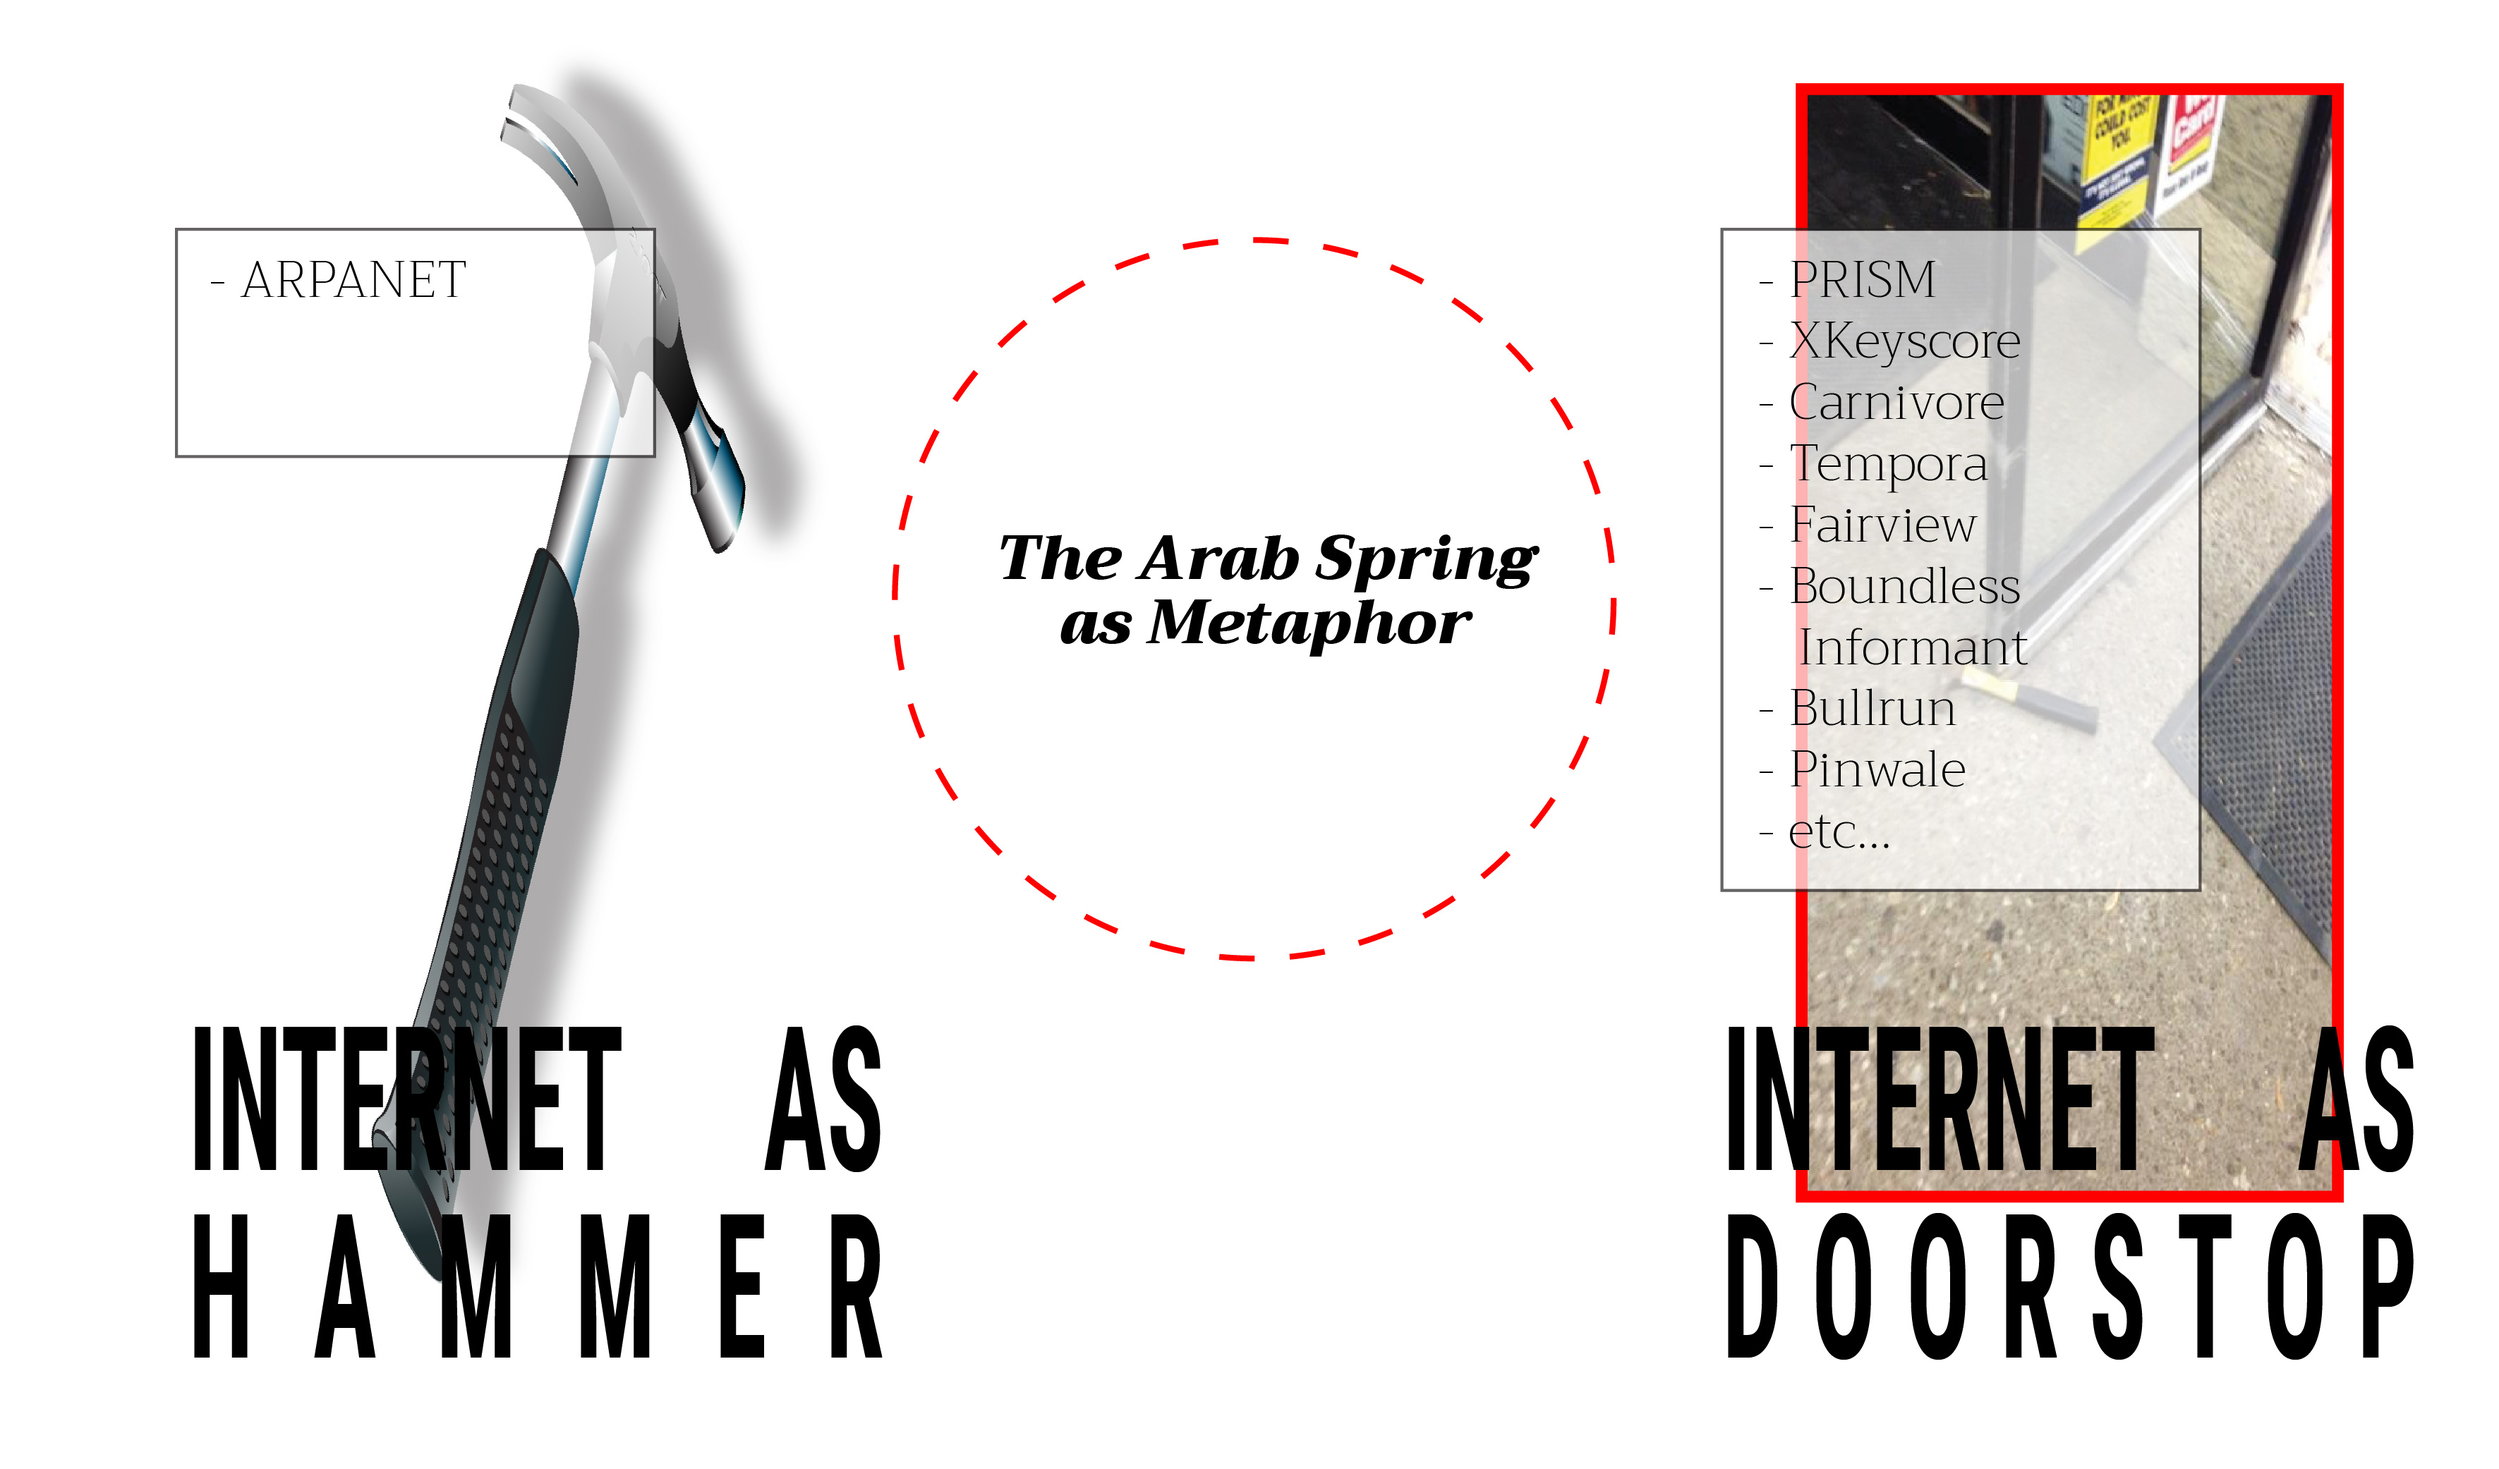
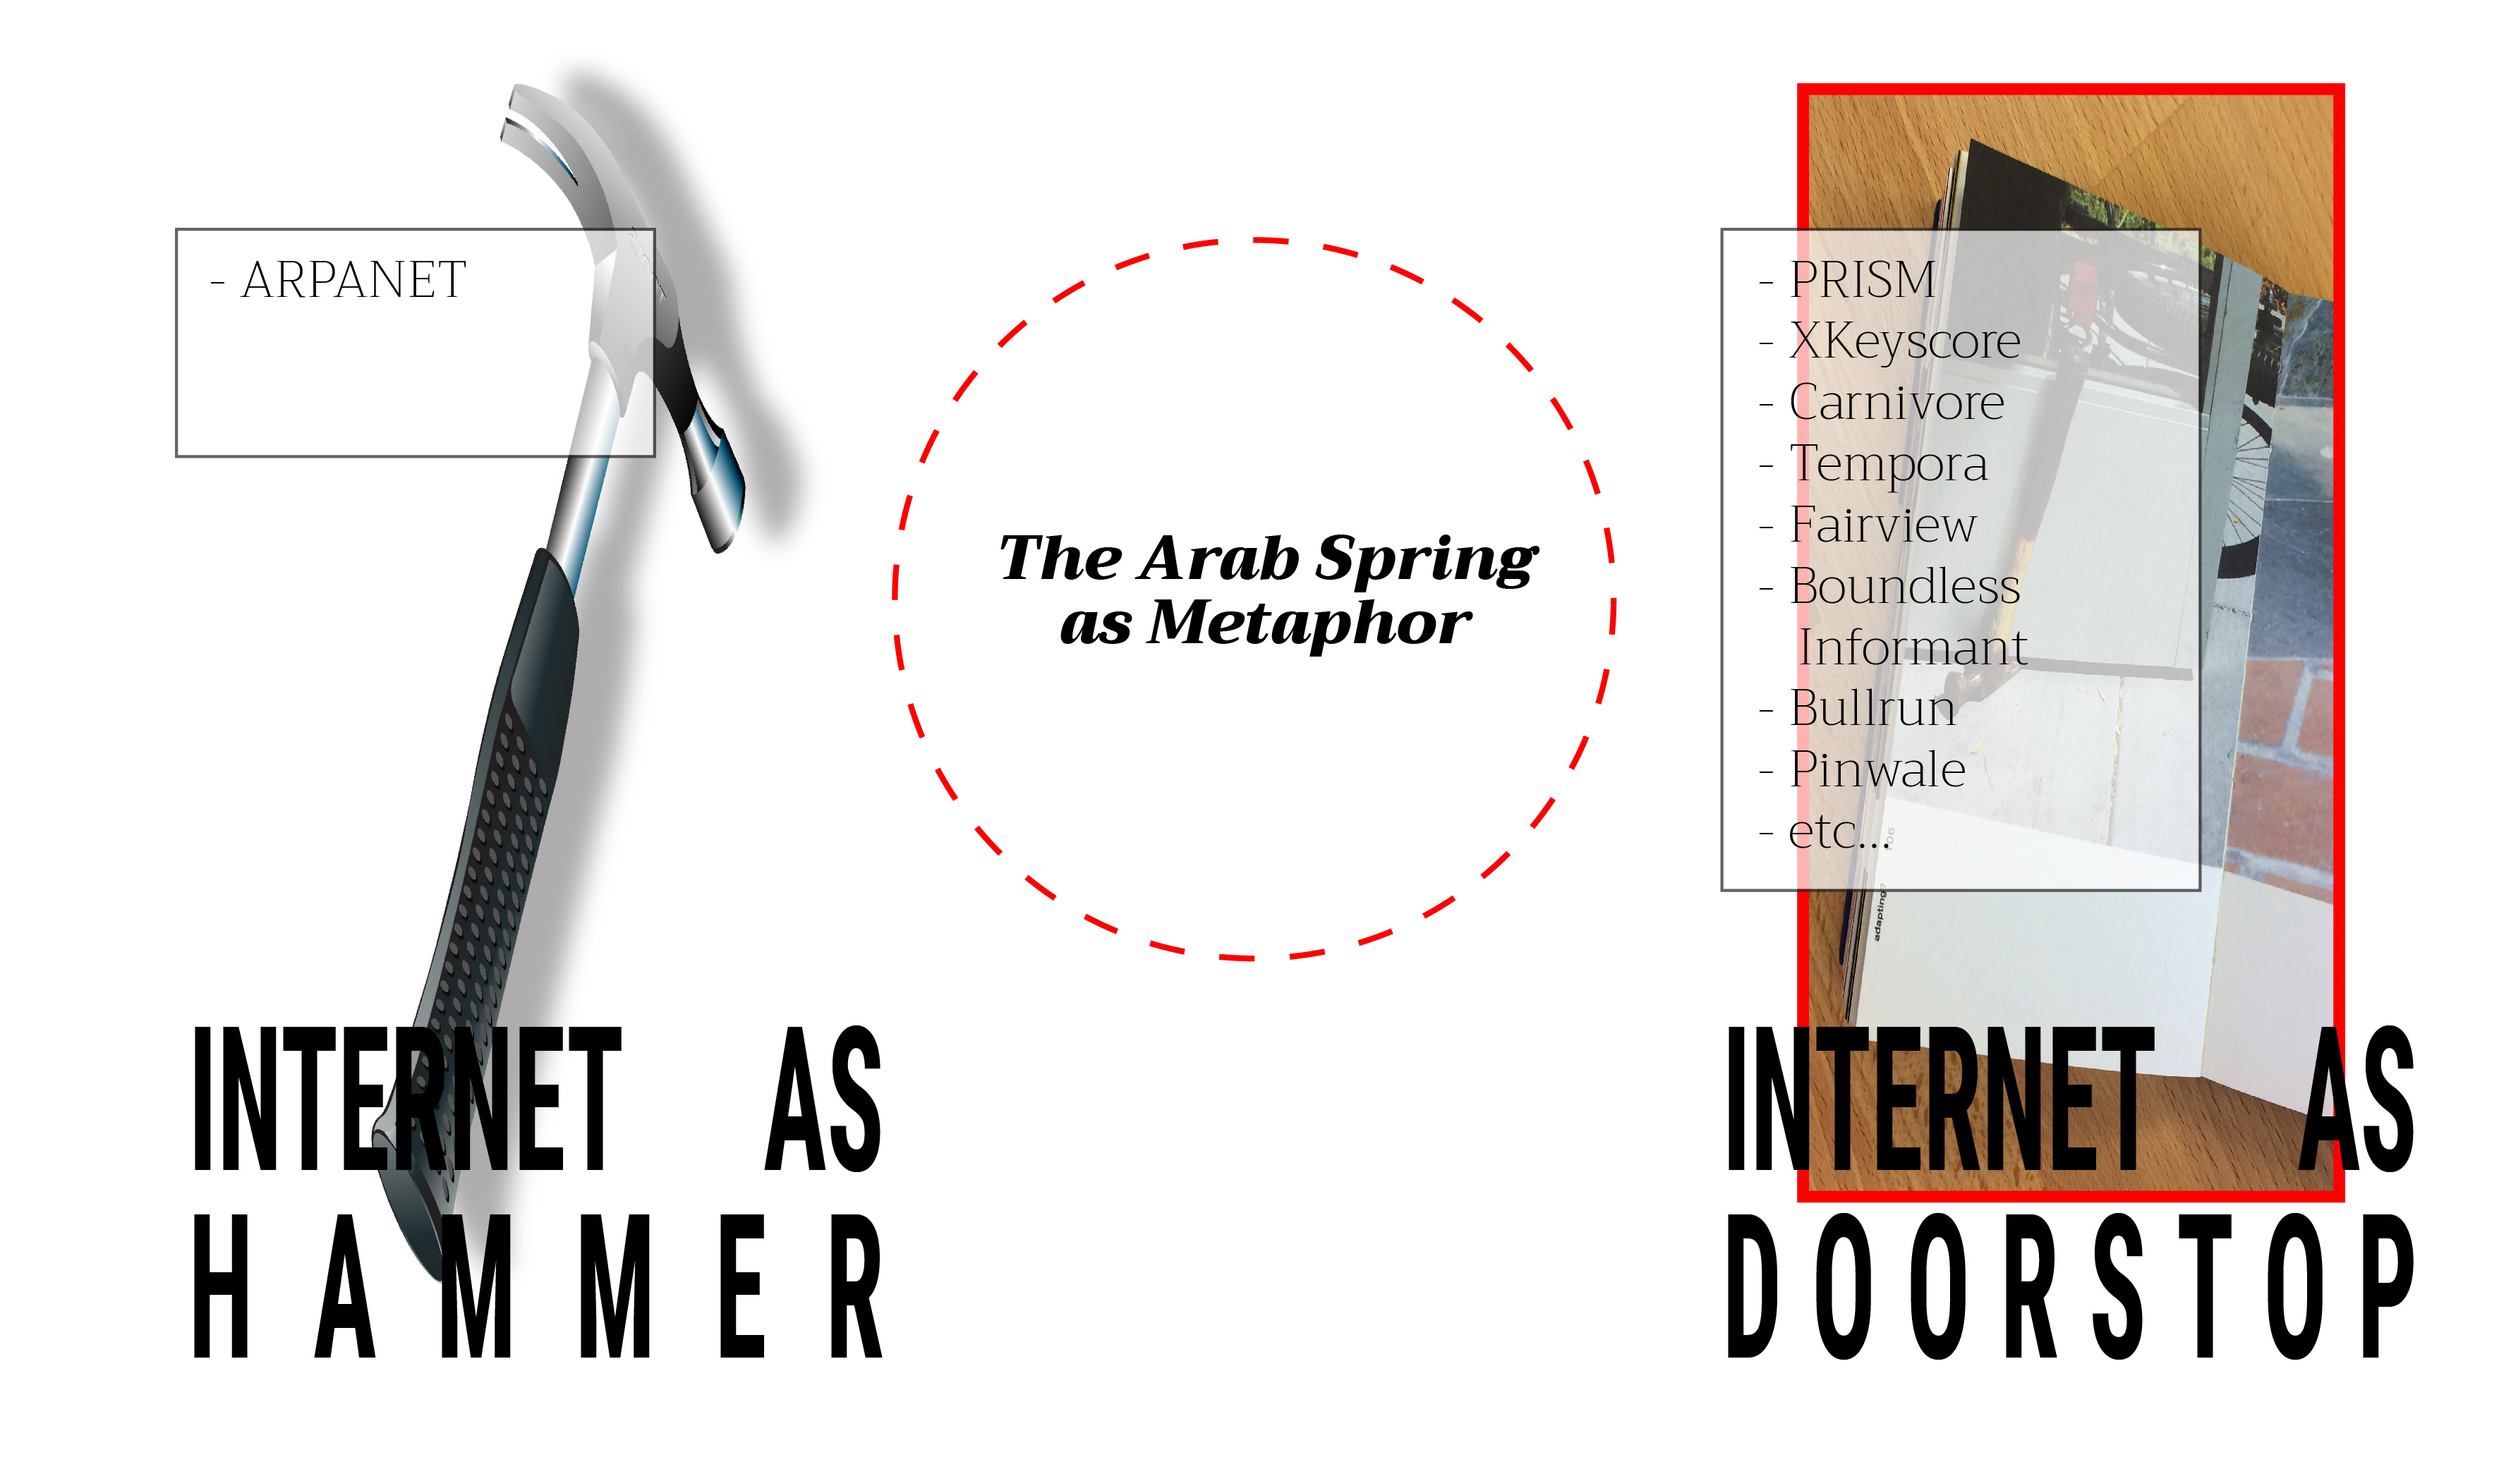
updates to home page

Changed region(s): [[0.7143, 0.0624, 0.9317, 0.8113]]

diff --git a/commissions.html b/commissions.html
@@ -38,6 +38,9 @@
   <body>
     <a href="index.html#link" id="home">Home</a>
     <img id="logo" src="img/homepage/logo.png">
+    <h1 id="index">
+      Project Index
+    </h1>
 
     <div class="container">
       
@@ -78,7 +81,17 @@
           </div>
 
           <div class="link">
-            <a class="text_link" href="http://danielsanta.net/">http://danielsanta.net/</a>
+            <a class="text_link" href="http://ifiruledtheworld.info/">http://ifiruledtheworld.info/</a>
+          </div>
+
+          <div class="img_container">
+            <img class="half" src="img/commissions/press_press/1.jpg">
+            <img class="half" src="img/commissions/press_press/2.jpg">
+          </div>
+          <div class="img_container">
+            <img class="third" src="img/commissions/press_press/3.png">
+            <img class="third" src="img/commissions/press_press/4.png">
+            <img class="third" src="img/commissions/press_press/5.png">
           </div>
         </div> <!-- end press press -->
 
@@ -105,14 +118,56 @@
 
           <div class="description">
             <p>
-              Temp. portfolio site for artist Daniel Santa. Temp. portfolio site for artist Daniel Santa. Deliverables Temp. portfolio site for artist Daniel Santa. Deliverables Temp. portfolio site for artist Daniel Santa. Deliverables 
+              Temp. portfolio site for artist Daniel Santa.
             </p>
           </div>
 
           <div class="link">
             <a class="text_link" href="http://danielsanta.net/">http://danielsanta.net/</a>
           </div>
+
+          <div class="img_container">
+            <img class="half" src="img/commissions/ds/1.jpg">
+            <img class="half" src="img/commissions/ds/2.jpg">
+          </div>
         </div> <!-- end daniel santa -->
+
+        <div class="project_container">
+          <div class="client">
+            <span class="name">Sebastian Ruiz</span> <span class="arrow">⇝</span> <span class="project_name">Portfolio Site (2016)</span>
+          </div> <!-- end client -->
+
+          <div class="roles">
+            <div class="role_italic">
+              Art Direction:
+            </div>
+            <div class="role_section">
+              Sebastian Ruiz + Expressions of Doubt
+            </div>
+
+            <div class="role_italic">
+              Design, Development:
+            </div>
+            <div class="role_section">
+              Expressions of Doubt
+            </div>
+          </div> <!-- end roles -->
+
+          <div class="description">
+            <p>
+              Temp. portfolio site for artist Sebastian Ruiz.
+            </p>
+          </div>
+
+          <div class="link">
+            <a class="text_link" href="http://seebuh.info/">http://seebuh.info/</a>
+          </div>
+
+          <div class="img_container">
+            <img class="half" src="img/commissions/sr/1.jpg">
+            <img class="half" src="img/commissions/sr/2.jpg">
+          </div>
+        </div> <!-- end sebastian ruiz -->
 
       </div>
       

diff --git a/css/main.css b/css/main.css
@@ -107,53 +107,6 @@ a:hover{
 	padding-top: 5rem;
 }
 
-/* Content Links */
-
-.link_wrap{
-	box-sizing: border-box;
-	-webkit-box-sizing: border-box;
-	margin: 0 10rem;
-	width: auto;
-	height: 80vh;
-	position: relative;
-}
-
-.link{
-	display: block;
-	width: 55%;
-	height: 60%;
-	position: absolute;
-	z-index: 10000;
-}
-
-.link_left{
-	left: 0;
-}
-
-.link_right{
-	right: 0;
-}
-
-.link a{
-	display: block;
-	text-align: center;
-	line-height: 30rem;
-	color: black;
-	text-decoration: none;
-	border: 4px solid red;
-	border-radius: 100%;
-	-webkit-border-radius: 100%;
-
-	font-family: 'Roboto Condensed', sans-serif;
-	font-size: 1.3rem;
-	text-transform: uppercase;
-	font-weight: bold;
-}
-
-.link a:hover{
-	color: white;
-	background-color: red;
-}
 /* Header */
 
 .header h1{
@@ -275,9 +228,78 @@ a:hover{
 .content {
 	margin-top: 100vh;
 	padding-top: 95vh;
-	padding-bottom: 2rem;
+	padding-bottom: 8vh;
 	background-color: white;
 	z-index: 0;
+}
+
+/* Content Links */
+
+.link_wrap{
+	box-sizing: border-box;
+	-webkit-box-sizing: border-box;
+	margin: 0 10rem;
+	width: auto;
+	height: 80vh;
+	position: relative;
+}
+
+.link{
+	display: block;
+	width: 55%;
+	top: 0rem;
+	bottom: 0rem;
+	position: absolute;
+	z-index: 10000;
+}
+
+.link_left{
+	left: 0;
+}
+
+.link_right{
+	right: 0;
+}
+
+.link a{
+	display: block;
+	text-align: center;
+	line-height: 70vh;
+	color: black;
+	text-decoration: none;
+	border: 4px solid red;
+	border-radius: 100%;
+	-webkit-border-radius: 100%;
+
+	font-family: 'Roboto Condensed', sans-serif;
+	font-size: 1.3rem;
+	text-transform: uppercase;
+	font-weight: bold;
+}
+
+.link a:hover{
+	color: white;
+	background-color: red;
+}
+
+.link_subtext{
+	display: block;
+	margin: 0 auto 0 auto;
+	font-family: 'Trirong', serif;
+	font-size: 0.8rem;
+	line-height: 1.35rem;
+	text-align: center;
+	width: 100%;
+	vertical-align: middle;
+	background-color: white;
+	width: 100%;
+	padding: 1rem 0 3rem 0;
+}
+
+.spacer {
+	width: 100%;
+	height: 1px;
+	background-color: white;
 }
 
 @media (max-width: 800px) {

diff --git a/css/commissions.css b/css/commissions.css
@@ -131,6 +131,27 @@ a:hover {
   height: auto;
 }
 
+#index{
+  position: fixed;
+  top: 17rem;
+  right: 0rem;
+  transform: rotate(90deg) scale(1, 2.2);
+  -webkit-transform: rotate(90deg) scale(1, 2.2);
+
+  font-family: 'Roboto Condensed', sans-serif;
+  font-size: 1.3rem;
+  z-index: 100;
+  text-transform: uppercase;
+  color: red;
+  text-align: justify;
+  border-bottom: 1px solid red;
+}
+
+#index:hover{
+  border-bottom: 1px solid white;
+  cursor: pointer;
+}
+
 /* Projects */
 
 .project_archive_wrap{
@@ -214,4 +235,27 @@ a:hover {
 .text_link:hover{
   background-color: yellow;
   border: 2px solid yellow;
+}
+
+.img_container{
+  display: block;
+  width: 100%;
+  margin: 0 auto 0 auto;
+  text-align: center;
+  vertical-align: middle;
+}
+
+.half{
+  margin-top: 1rem;
+  width: 42%;
+}
+
+.third{
+  margin-top: -1rem;
+  width: 20%;
+}
+
+.img_container img{
+  display: inline-block;
+  vertical-align: middle;
 }

diff --git a/index.html b/index.html
@@ -83,16 +83,22 @@
       <img src="img/homepage/graph3.jpg">
 
       <div class="link_wrap" id="link">
+
         <div class="link link_left">
-         <a href="collaborations.html">Collaborations</a> 
+          <a href="commissions.html">
+            Commissions
+          </a> 
+          <span class="link_subtext">( Designer as Hammer )</span>
         </div>
 
         <div class="link link_right">
-         <a href="commissions.html">Commissions</a> 
+         <a href="collaborations.html">Collaborations</a> 
+         <span class="link_subtext">( Designer as Doorstop )</span>
         </div>
+        
       </div>
+      
     </div>
-
   <script src="https://ajax.googleapis.com/ajax/libs/jquery/2.2.4/jquery.min.js"></script>
   <script src="js/main.js"></script>
 </body>
